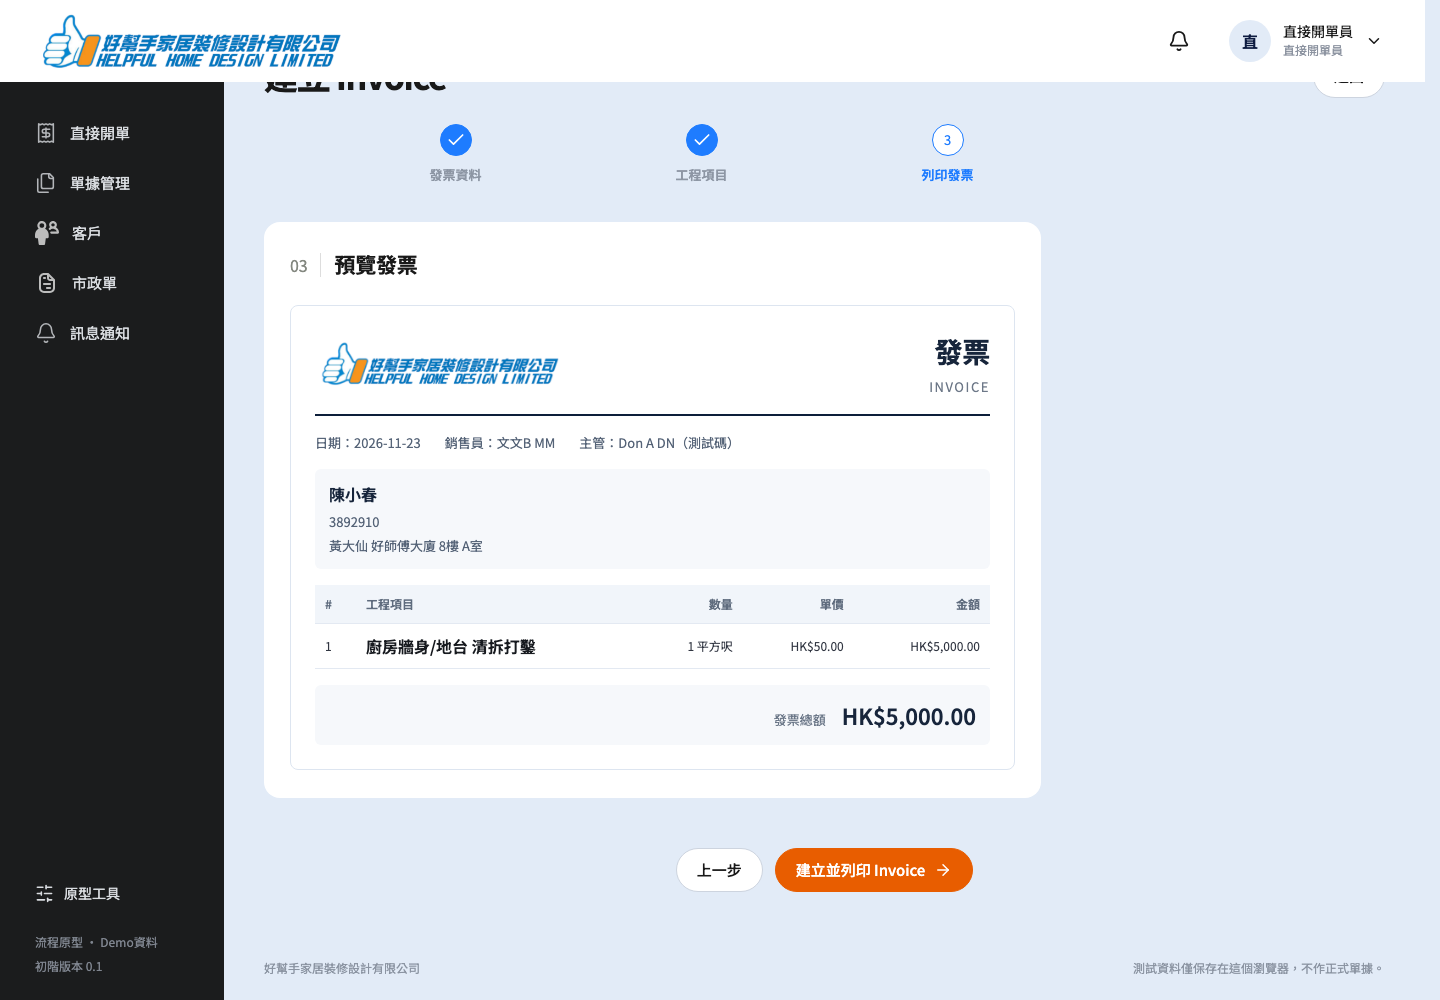
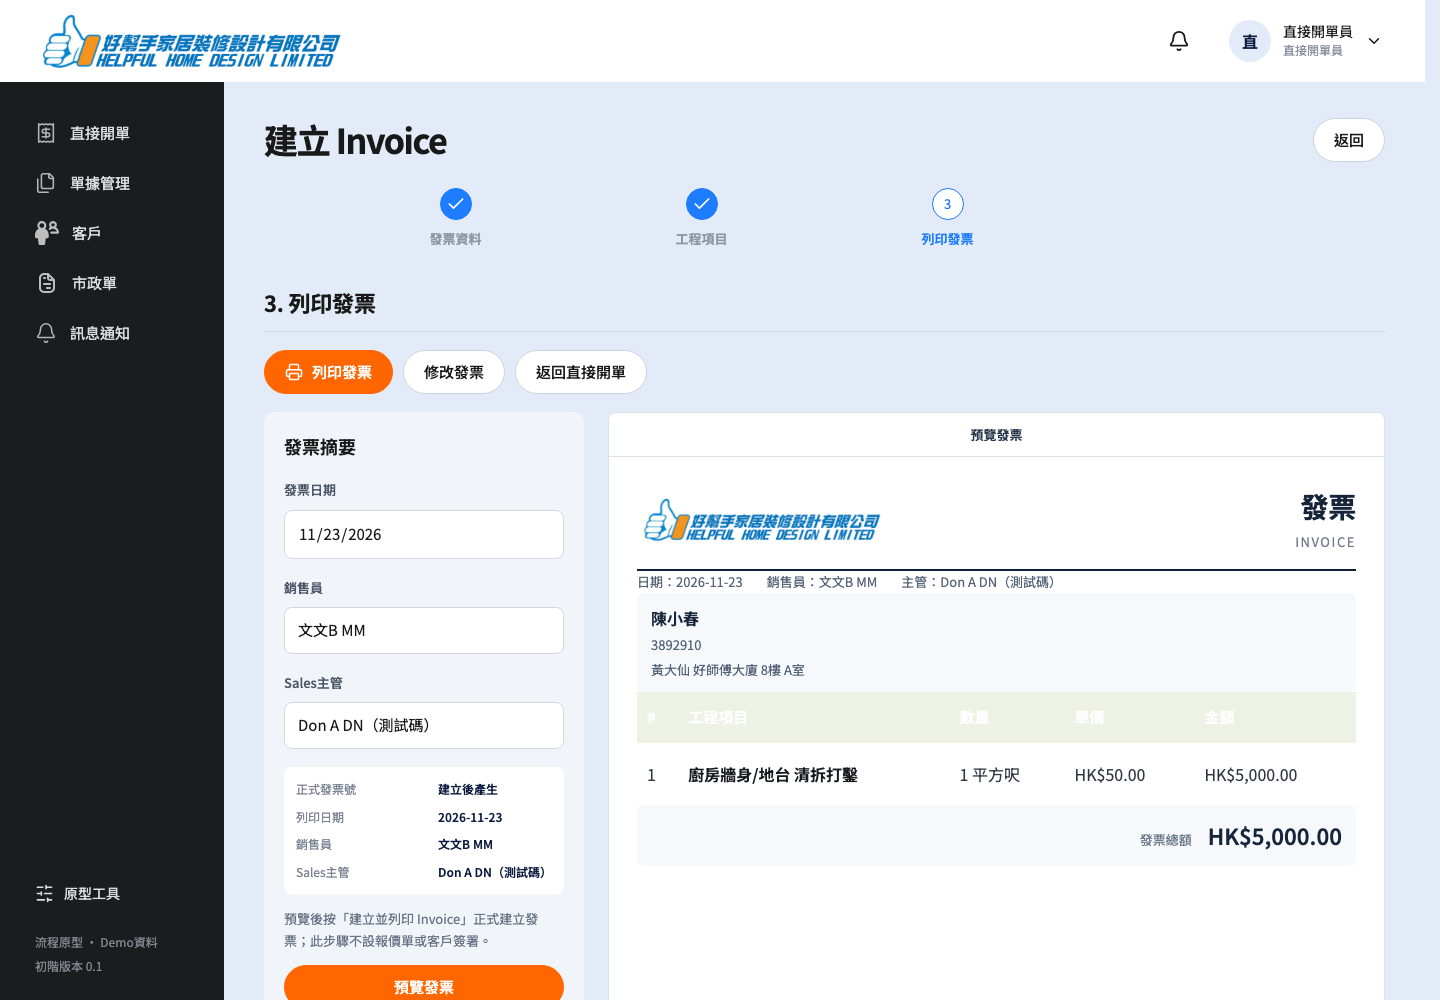
fix(direct-invoice): match handoff step 3 layout

diff --git a/src/pages/Quotes.tsx b/src/pages/Quotes.tsx
@@ -1534,74 +1534,149 @@ export function QuoteEditor() {
           </Section>
           )}
           {directInvoice && wizardStep === 3 && (
-            <Section number="03" title="預覽發票">
-              <div className="direct-invoice-preview">
-                <header className="direct-invoice-preview-head">
-                  <img
-                    src="/company-logo.png"
-                    alt="好幫手家居裝修設計有限公司"
-                  />
-                  <div>
-                    <h2>發票</h2>
-                    <span>INVOICE</span>
+            <>
+              <h2 className="quote-step-title">3. 列印發票</h2>
+              <div className="handoff-actions">
+                <Button variant="primary" onClick={createDirectInvoice}>
+                  <Printer size={18} /> 列印發票
+                </Button>
+                <Button onClick={() => setWizardStep(2)}>修改發票</Button>
+                <Button onClick={() => nav("/direct-invoices")}>
+                  返回直接開單
+                </Button>
+              </div>
+              <div className="handoff-print-grid">
+                <div className="handoff-print-settings">
+                  <h3>發票摘要</h3>
+                  <Field label="發票日期">
+                    <input type="date" value={invoiceDate} readOnly />
+                  </Field>
+                  <Field label="銷售員">
+                    <input
+                      value={
+                        salesOptions.find((item) => item.id === salesId)?.name ||
+                        "—"
+                      }
+                      readOnly
+                    />
+                  </Field>
+                  <Field label="Sales主管">
+                    <input
+                      value={
+                        supervisorOptions.find(
+                          (item) => item.id === supervisorId,
+                        )?.name || "—"
+                      }
+                      readOnly
+                    />
+                  </Field>
+                  <div className="handoff-prepared">
+                    <span>正式發票號</span>
+                    <strong>建立後產生</strong>
+                    <span>列印日期</span>
+                    <strong>{invoiceDate}</strong>
+                    <span>銷售員</span>
+                    <strong>
+                      {salesOptions.find((item) => item.id === salesId)?.name ||
+                        "—"}
+                    </strong>
+                    <span>Sales主管</span>
+                    <strong>
+                      {supervisorOptions.find(
+                        (item) => item.id === supervisorId,
+                      )?.name || "—"}
+                    </strong>
                   </div>
-                </header>
-                <div className="direct-invoice-preview-meta">
-                  <span>日期：{invoiceDate}</span>
-                  <span>
-                    銷售員：
-                    {salesOptions.find((item) => item.id === salesId)?.name ||
-                      "—"}
-                  </span>
-                  <span>
-                    主管：
-                    {supervisorOptions.find((item) => item.id === supervisorId)
-                      ?.name || "—"}
-                  </span>
+                  <p className="handoff-note">
+                    預覽後按「建立並列印 Invoice」正式建立發票；此步驟不設報價單或客戶簽署。
+                  </p>
+                  <Button
+                    className="full-width"
+                    variant="primary"
+                    onClick={() =>
+                      document
+                        .getElementById("direct-invoice-preview")
+                        ?.scrollIntoView({ behavior: "smooth" })
+                    }
+                  >
+                    預覽發票
+                  </Button>
                 </div>
-                <div className="direct-invoice-preview-customer">
-                  <strong>{customer.name || "待填客戶"}</strong>
-                  <span>{customer.phone}</span>
-                  <span>{customer.address || "待填地址"}</span>
-                </div>
-                <table className="document-table">
-                  <thead>
-                    <tr>
-                      <th>#</th>
-                      <th>工程項目</th>
-                      <th>數量</th>
-                      <th>單價</th>
-                      <th>金額</th>
-                    </tr>
-                  </thead>
-                  <tbody>
-                    {lines.map((line, index) => {
-                      const amount =
-                        pricing.lineAmounts.find(
-                          (item) => item.id === line.id,
-                        )?.amount ?? 0;
-                      return (
-                        <tr key={line.id}>
-                          <td>{index + 1}</td>
-                          <td>
-                            <strong>{line.itemSnapshot.name}</strong>
-                          </td>
-                          <td>
-                            {line.quantity} {line.itemSnapshot.unit}
-                          </td>
-                          <td>{money(line.itemSnapshot.price)}</td>
-                          <td>{money(amount)}</td>
+                <div
+                  className="handoff-quote-preview"
+                  id="direct-invoice-preview"
+                >
+                  <div className="handoff-preview-title">預覽發票</div>
+                  <div className="direct-invoice-paper">
+                    <header className="direct-invoice-preview-head">
+                      <img
+                        src="/company-logo.png"
+                        alt="好幫手家居裝修設計有限公司"
+                      />
+                      <div>
+                        <h2>發票</h2>
+                        <span>INVOICE</span>
+                      </div>
+                    </header>
+                    <div className="direct-invoice-preview-meta">
+                      <span>日期：{invoiceDate}</span>
+                      <span>
+                        銷售員：
+                        {salesOptions.find((item) => item.id === salesId)
+                          ?.name || "—"}
+                      </span>
+                      <span>
+                        主管：
+                        {supervisorOptions.find(
+                          (item) => item.id === supervisorId,
+                        )?.name || "—"}
+                      </span>
+                    </div>
+                    <div className="direct-invoice-preview-customer">
+                      <strong>{customer.name || "待填客戶"}</strong>
+                      <span>{customer.phone}</span>
+                      <span>{customer.address || "待填地址"}</span>
+                    </div>
+                    <table className="document-table">
+                      <thead>
+                        <tr>
+                          <th>#</th>
+                          <th>工程項目</th>
+                          <th>數量</th>
+                          <th>單價</th>
+                          <th>金額</th>
                         </tr>
-                      );
-                    })}
-                  </tbody>
-                </table>
-                <div className="direct-invoice-preview-total">
-                  <span>發票總額</span>
-                  <strong>{money(pricing.total)}</strong>
+                      </thead>
+                      <tbody>
+                        {lines.map((line, index) => {
+                          const amount =
+                            pricing.lineAmounts.find(
+                              (item) => item.id === line.id,
+                            )?.amount ?? 0;
+                          return (
+                            <tr key={line.id}>
+                              <td>{index + 1}</td>
+                              <td>
+                                <strong>{line.itemSnapshot.name}</strong>
+                              </td>
+                              <td>
+                                {line.quantity} {line.itemSnapshot.unit}
+                              </td>
+                              <td>{money(line.itemSnapshot.price)}</td>
+                              <td>{money(amount)}</td>
+                            </tr>
+                          );
+                        })}
+                      </tbody>
+                    </table>
+                    <div className="direct-invoice-preview-total">
+                      <span>發票總額</span>
+                      <strong>{money(pricing.total)}</strong>
+                    </div>
+                  </div>
                 </div>
               </div>
-            </Section>
+            </>
           )}
           {(base?.signature || clerkEditor) && !orderEdit && (
             <Section title="版本修改原因">

diff --git a/tests/e2e/direct-invoice.spec.ts b/tests/e2e/direct-invoice.spec.ts
@@ -41,7 +41,10 @@ test("直接開單員可以建立 Invoice，不需要報價單", async ({ page }
   await expect(page.getByText("訂單分類", { exact: true })).toHaveCount(0);
   await expect(page.getByText("全單折扣", { exact: true })).toHaveCount(0);
   await page.getByRole("button", { name: /下一步：預覽發票/ }).click();
-  await expect(page.getByText("預覽發票", { exact: false })).toBeVisible();
+  await expect(
+    page.getByRole("heading", { name: "3. 列印發票", exact: true }),
+  ).toBeVisible();
+  await expect(page.getByText("預覽發票", { exact: true }).first()).toBeVisible();
   await expect(page.getByText("INVOICE", { exact: true })).toBeVisible();
   await page.getByRole("button", { name: /建立並列印 Invoice/ }).click();
   await expect(page).toHaveURL(/\/documents\/invoice\//);

diff --git a/src/styles.css b/src/styles.css
@@ -12127,3 +12127,32 @@ textarea::placeholder {
     text-align: left;
   }
 }
+
+.quote-wizard-layout.wizard-step-3 {
+  grid-template-columns: minmax(0, 1fr);
+}
+.handoff-quote-preview .direct-invoice-paper {
+  min-width: 680px;
+  min-height: 100%;
+  padding: 28px;
+  background: #fff;
+}
+@media (max-width: 800px) {
+  .handoff-quote-preview .direct-invoice-paper {
+    min-width: 0;
+    padding: 16px;
+  }
+}
+
+.handoff-preview-title {
+  position: sticky;
+  top: 0;
+  z-index: 2;
+  padding: 11px 16px;
+  border-bottom: 1px solid #d9e1eb;
+  background: #fff;
+  color: #27364b;
+  font-size: 13px;
+  font-weight: 600;
+  text-align: center;
+}
